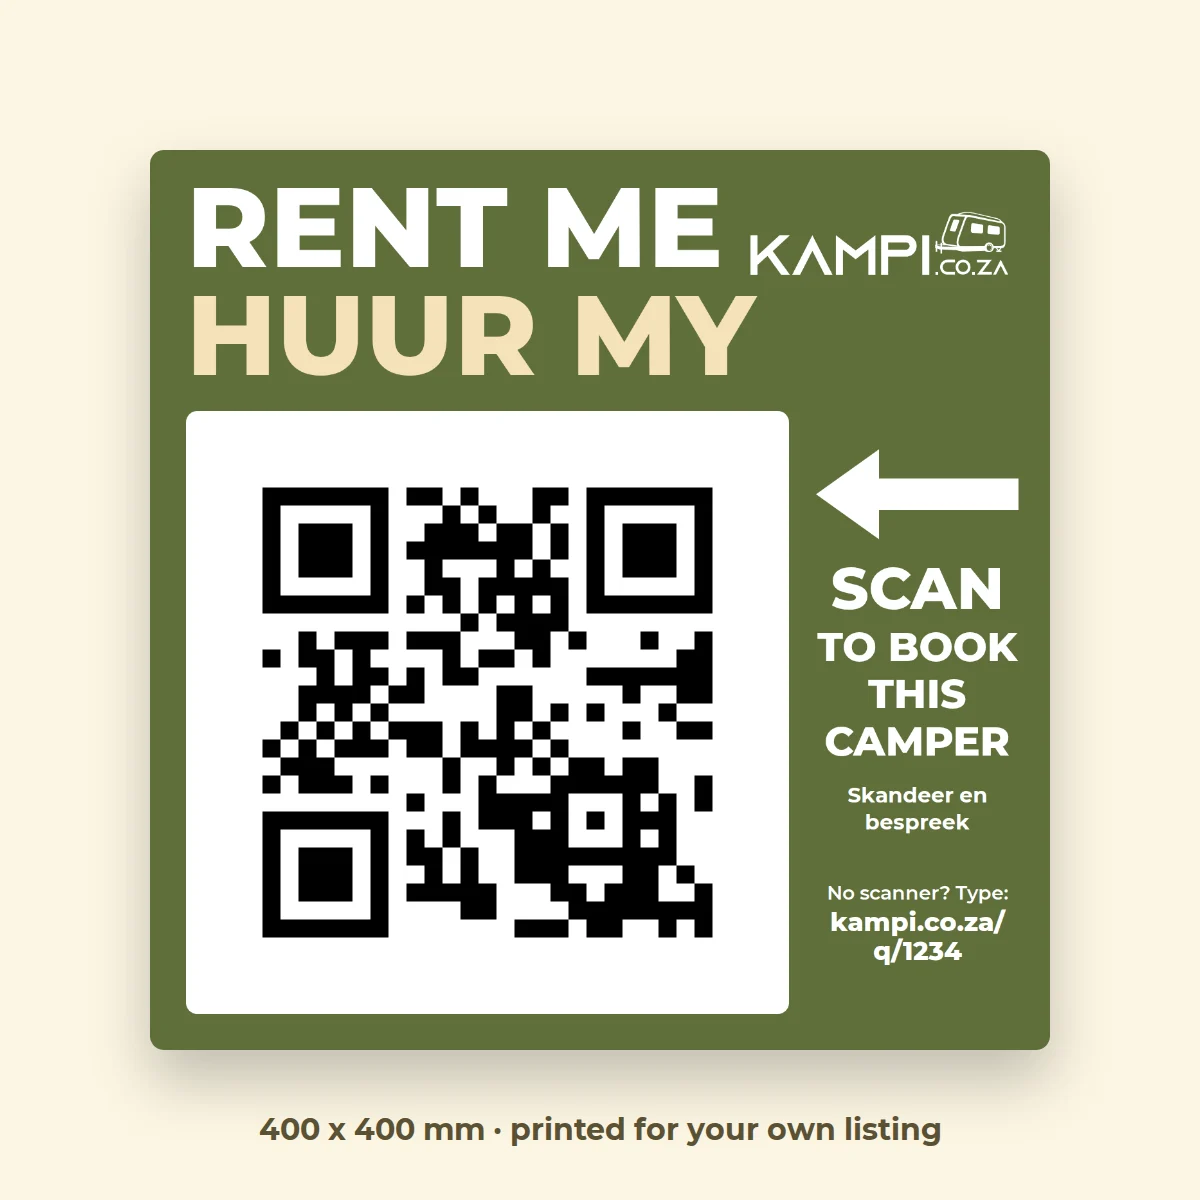
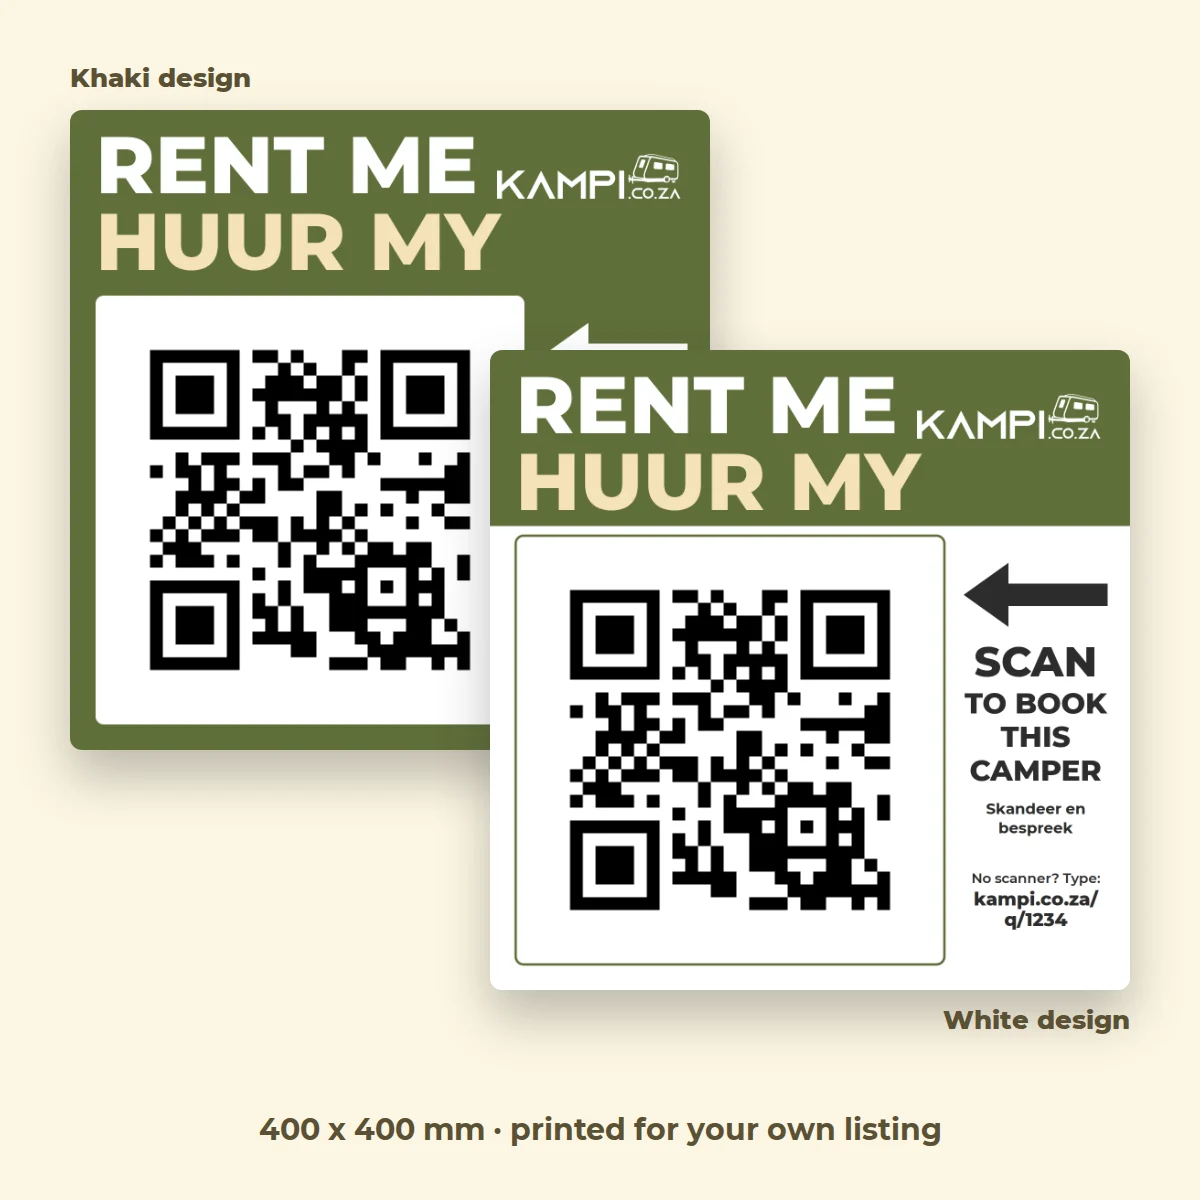
feat(shop): QR design option (khaki or white) on the Kampi host sticker kit
Six variants: sticker colour x QR design, all R550, so the fixed-amount host codes still cap at max_kits x price.

diff --git a/backend/src/scripts/add-host-sticker-kit.ts b/backend/src/scripts/add-host-sticker-kit.ts
@@ -28,12 +28,19 @@ const COLOURS = [
   { value: "Khaki", sku: `${SKU}-KHK` },
   { value: "Black", sku: `${SKU}-BLK` },
 ]
+// The 400 mm QR sticker is printed, so its design is a second choice: khaki background or white background.
+const QR_OPTION = "QR sticker design"
+const QR_DESIGNS = [
+  { value: "Khaki", sku: "QK" },
+  { value: "White", sku: "QW" },
+]
+const VARIANTS = COLOURS.flatMap((c) => QR_DESIGNS.map((q) => ({ title: `${c.value} stickers / ${q.value} QR`, sku: `${c.sku}-${q.sku}`, colour: c.value, qr: q.value })))
 const PRICE_ZAR = 550
 const WEIGHT_G = 350
 const CATEGORIES = ["KampiHost Essentials", "Stickers & Decals"]
 const TAGS = ["kampi.co.za", "Stickers", "Vehicle decal", "QR"]
 const CONTENTS = [
-  "1 x QR sticker printed for your listing (400 x 400 mm)",
+  "1 x QR sticker printed for your listing (400 x 400 mm, khaki or white design)",
   '2 x "Rent me / Huur my" side stickers (840 x 190 mm)',
   '1 x "Rent me" square (300 x 300 mm)',
   "2 x Kampi stickers (500 x 121 mm)",
@@ -45,7 +52,7 @@ const CONTENTS = [
   "A placement guide",
 ]
 const INTRO =
-  "One kit per camper. The 400 mm QR sticker goes on the back of your camper and sends anyone who scans it straight to your own Kampi listing. Choose white, khaki or black for the side stickers and logos, so they show up on your camper."
+  "One kit per camper. The 400 mm QR sticker goes on the back of your camper and sends anyone who scans it straight to your own Kampi listing. Choose white, khaki or black for the side stickers and logos, so they show up on your camper, and a khaki or white design for the QR sticker."
 const OUTRO =
   "Each QR sticker is printed for one specific camper, so we need your Kampi listing number with the order. Courier to your door or a locker, or collect for free at Noord Karavane in Pretoria North, where we can also fit the stickers for you."
 const DESCRIPTION = `${INTRO} The kit includes: ${CONTENTS.join(", ")}. ${OUTRO}`
@@ -110,13 +117,16 @@ export default async function addHostStickerKit({ container }: ExecArgs) {
             // one Kampi listing number per kit must travel with the order (the QR print file is picked by it)
             requires_kampi_listing_numbers: true,
           },
-          options: [{ title: COLOUR_OPTION, values: COLOURS.map((c) => c.value) }],
-          variants: COLOURS.map((c) => ({
-            title: c.value,
-            sku: c.sku,
+          options: [
+            { title: COLOUR_OPTION, values: COLOURS.map((c) => c.value) },
+            { title: QR_OPTION, values: QR_DESIGNS.map((q) => q.value) },
+          ],
+          variants: VARIANTS.map((v) => ({
+            title: v.title,
+            sku: v.sku,
             manage_inventory: false,
             weight: WEIGHT_G,
-            options: { [COLOUR_OPTION]: c.value },
+            options: { [COLOUR_OPTION]: v.colour, [QR_OPTION]: v.qr },
             prices: [{ amount: PRICE_ZAR, currency_code: "zar" }],
           })),
         },
